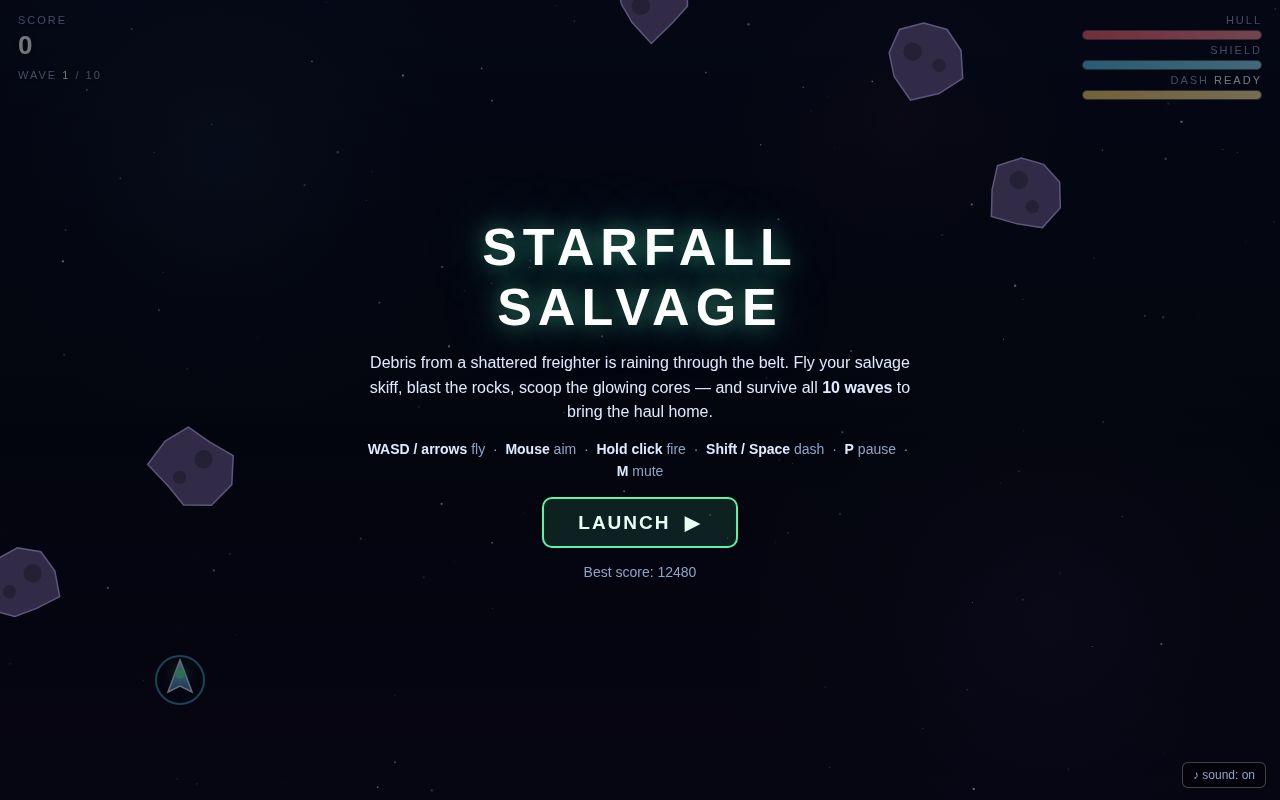
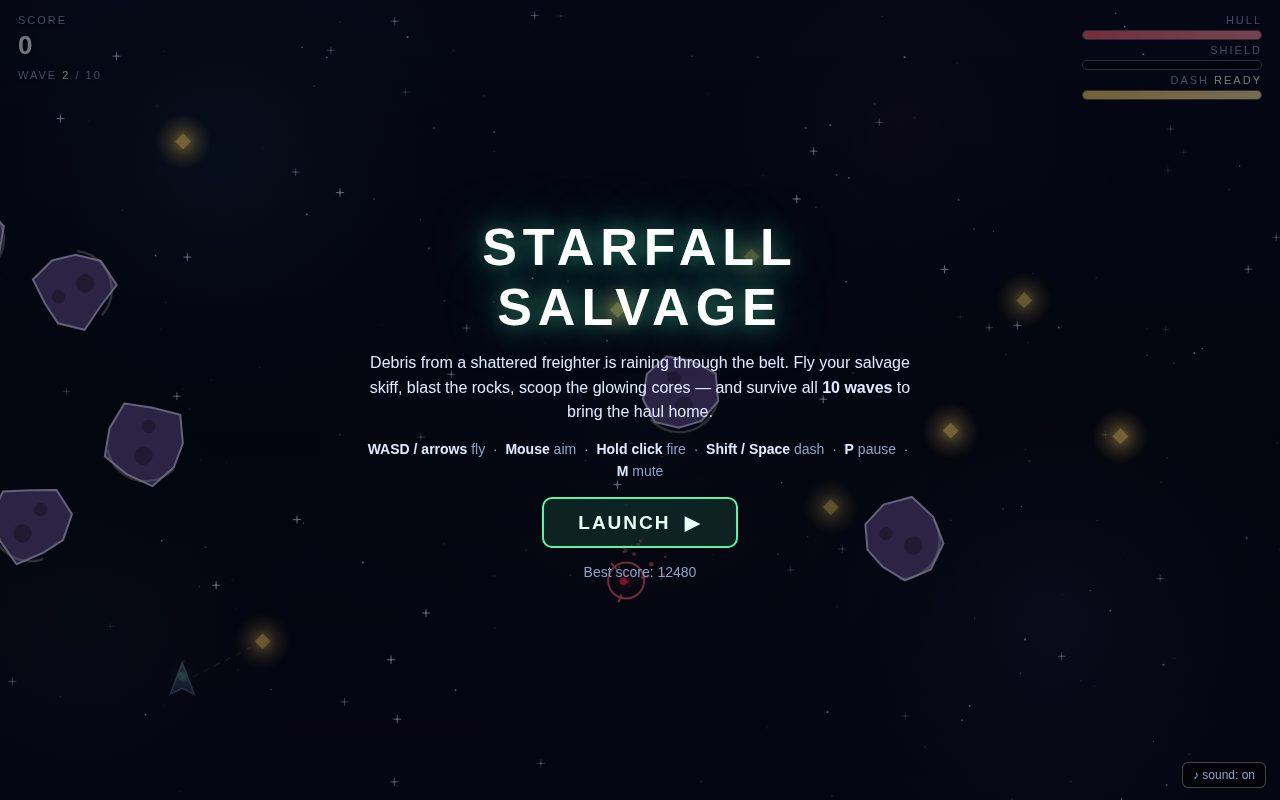
Make the game read richer: dense action frames, prism cores, tractor beams
- Rich prism cores (1 in 8 drops, 5x value) with cyan glow and sparkle
- Tractor-beam lines reel nearby cores toward the skiff
- Denser starfield, stronger nebulae, per-size rock shading, brighter bullets
- Engine glow under thrust, bigger explosion bursts
- Screenshots re-staged: full wave 5 field with drones firing, title
  backdrop with a drone and scattered cores, wreck debris at the death site
- Wave banner now shows on the frozen play frame

diff --git a/game/src/render.js b/game/src/render.js
@@ -12,6 +12,7 @@ export function drawWorld(ctx, world) {
   }
   drawBackground(ctx, world);
   drawCores(ctx, world);
+  drawTractorBeams(ctx, world);
   drawAsteroids(ctx, world);
   drawDrones(ctx, world);
   drawEnemyBullets(ctx, world);
@@ -31,17 +32,23 @@ function drawBackground(ctx, world) {
   ctx.fillStyle = grad;
   ctx.fillRect(-24, -24, CONFIG.width + 48, CONFIG.height + 48);
 
-  // Two soft nebula blobs, painted once per frame from fixed spots.
-  drawNebula(ctx, 220, 160, 300, 'rgba(76, 201, 240, 0.07)');
-  drawNebula(ctx, 1050, 620, 340, 'rgba(157, 120, 255, 0.08)');
-  drawNebula(ctx, 900, 120, 200, 'rgba(255, 93, 115, 0.05)');
+  // Five soft nebula blobs, painted once per frame from fixed spots.
+  drawNebula(ctx, 220, 160, 300, 'rgba(76, 201, 240, 0.09)');
+  drawNebula(ctx, 1050, 620, 340, 'rgba(157, 120, 255, 0.10)');
+  drawNebula(ctx, 900, 120, 200, 'rgba(255, 93, 115, 0.06)');
+  drawNebula(ctx, 80, 620, 260, 'rgba(93, 242, 166, 0.05)');
+  drawNebula(ctx, 640, 420, 420, 'rgba(76, 201, 240, 0.04)');
 
-  // Parallax stars.
+  // Parallax stars; the brightest ones get a little cross sparkle.
   for (const s of world.stars) {
     const tw = 0.55 + 0.45 * Math.sin(s.twinkle);
     ctx.globalAlpha = tw;
     ctx.fillStyle = '#cfe0ff';
     ctx.fillRect(s.x, s.y, s.size, s.size);
+    if (s.size >= 1.8) {
+      ctx.fillRect(s.x - 3, s.y + s.size / 2 - 0.5, 6 + s.size, 1);
+      ctx.fillRect(s.x + s.size / 2 - 0.5, s.y - 3, 1, 6 + s.size);
+    }
   }
   ctx.globalAlpha = 1;
 }
@@ -93,6 +100,17 @@ function drawShip(ctx, world) {
   ctx.shadowBlur = 12;
   ctx.fill();
   ctx.shadowBlur = 0;
+  // Engine glow whenever the skiff is under thrust.
+  const speed = Math.hypot(ship.vx, ship.vy);
+  if (speed > 40) {
+    ctx.beginPath();
+    ctx.moveTo(-12, -5);
+    ctx.lineTo(-12 - 10 - speed * 0.02, 0);
+    ctx.lineTo(-12, 5);
+    ctx.closePath();
+    ctx.fillStyle = 'rgba(255, 179, 71, 0.85)';
+    ctx.fill();
+  }
   // Engine flame when dashing.
   if (ship.dashTimer > 0) {
     ctx.beginPath();
@@ -114,12 +132,12 @@ function drawBullets(ctx, world) {
     const nx = b.vx / len;
     const ny = b.vy / len;
     ctx.beginPath();
-    ctx.moveTo(b.x - nx * 12, b.y - ny * 12);
+    ctx.moveTo(b.x - nx * 16, b.y - ny * 16);
     ctx.lineTo(b.x, b.y);
     ctx.strokeStyle = '#ffe9a8';
-    ctx.lineWidth = 3;
+    ctx.lineWidth = 4;
     ctx.shadowColor = '#ffd166';
-    ctx.shadowBlur = 8;
+    ctx.shadowBlur = 10;
     ctx.stroke();
   }
   ctx.restore();
@@ -154,11 +172,19 @@ function drawAsteroids(ctx, world) {
       ctx.lineTo(a.vertices[i].x, a.vertices[i].y);
     }
     ctx.closePath();
-    const shade = a.size === 'large' ? '#6b5a8e' : a.size === 'medium' ? '#7d6ba8' : '#8f7cc0';
+    // Big rocks read deep violet, medium ones slate, small ones pale:
+    // the field's danger is visible at a glance.
+    const shade = a.size === 'large' ? '#5d4a86' : a.size === 'medium' ? '#7d6ba8' : '#a08fd0';
     ctx.fillStyle = shade;
     ctx.fill();
-    ctx.strokeStyle = '#c9b8ff';
-    ctx.lineWidth = 1.5;
+    ctx.strokeStyle = '#d9ccff';
+    ctx.lineWidth = 2;
+    ctx.stroke();
+    // Sunlit crescent on the upper-left rim.
+    ctx.beginPath();
+    ctx.arc(0, 0, a.radius * 0.92, Math.PI * 0.9, Math.PI * 1.6);
+    ctx.strokeStyle = 'rgba(255, 255, 255, 0.35)';
+    ctx.lineWidth = 2.5;
     ctx.stroke();
     // Cracks and craters, from the same seeded vertices.
     ctx.beginPath();
@@ -231,26 +257,66 @@ function drawCores(ctx, world) {
     const blink = 0.75 + 0.25 * Math.sin(c.pulse);
     const fade = c.age > 9 ? Math.max(0.25, (12 - c.age) / 3) : 1;
     ctx.globalAlpha = blink * fade;
-    // Glow halo.
-    const g = ctx.createRadialGradient(c.x, c.y, 0, c.x, c.y, c.radius * 3);
-    g.addColorStop(0, 'rgba(255, 209, 102, 0.55)');
-    g.addColorStop(1, 'rgba(255, 209, 102, 0)');
+    const rich = c.kind === 'rich';
+    const haloColor = rich ? '76, 201, 240' : '255, 209, 102';
+    // Glow halo, larger for rich prism cores.
+    const g = ctx.createRadialGradient(c.x, c.y, 0, c.x, c.y, c.radius * (rich ? 4.5 : 3.5));
+    g.addColorStop(0, `rgba(${haloColor}, ${rich ? 0.75 : 0.55})`);
+    g.addColorStop(1, `rgba(${haloColor}, 0)`);
     ctx.fillStyle = g;
     ctx.beginPath();
-    ctx.arc(c.x, c.y, c.radius * 3, 0, Math.PI * 2);
+    ctx.arc(c.x, c.y, c.radius * (rich ? 4.5 : 3.5), 0, Math.PI * 2);
     ctx.fill();
     // Diamond core.
     ctx.save();
     ctx.translate(c.x, c.y);
     ctx.rotate(Math.PI / 4);
-    ctx.fillStyle = '#ffd166';
-    ctx.shadowColor = '#ffd166';
-    ctx.shadowBlur = 12;
+    ctx.fillStyle = rich ? '#4cc9f0' : '#ffd166';
+    ctx.shadowColor = rich ? '#4cc9f0' : '#ffd166';
+    ctx.shadowBlur = rich ? 18 : 12;
     ctx.fillRect(-c.radius * 0.7, -c.radius * 0.7, c.radius * 1.4, c.radius * 1.4);
     ctx.restore();
+    // Rich cores flash a white heart and a sparkle cross.
+    if (rich) {
+      ctx.fillStyle = '#ffffff';
+      ctx.shadowColor = '#ffffff';
+      ctx.shadowBlur = 10;
+      ctx.fillRect(c.x - 2, c.y - 2, 4, 4);
+      ctx.shadowBlur = 0;
+      ctx.strokeStyle = 'rgba(255, 255, 255, 0.8)';
+      ctx.lineWidth = 1;
+      ctx.beginPath();
+      ctx.moveTo(c.x - c.radius * 1.6, c.y);
+      ctx.lineTo(c.x + c.radius * 1.6, c.y);
+      ctx.moveTo(c.x, c.y - c.radius * 1.6);
+      ctx.lineTo(c.x, c.y + c.radius * 1.6);
+      ctx.stroke();
+    }
   }
   ctx.restore();
   ctx.globalAlpha = 1;
+}
+
+// Faint tractor lines from the skiff to cores it is pulling in: the
+// salvage itself, made visible.
+function drawTractorBeams(ctx, world) {
+  const ship = world.ship;
+  if (!ship.alive) return;
+  ctx.save();
+  for (const c of world.cores) {
+    const d = Math.hypot(c.x - ship.x, c.y - ship.y);
+    if (d < 200 && d > ship.radius + c.radius + 4) {
+      const alpha = 0.28 * (1 - d / 220);
+      ctx.beginPath();
+      ctx.moveTo(ship.x, ship.y);
+      ctx.lineTo(c.x, c.y);
+      ctx.strokeStyle = c.kind === 'rich' ? `rgba(76, 201, 240, ${alpha + 0.12})` : `rgba(255, 209, 102, ${alpha})`;
+      ctx.lineWidth = 1.5;
+      ctx.setLineDash([6, 6]);
+      ctx.stroke();
+    }
+  }
+  ctx.restore();
 }
 
 function drawParticles(ctx, world) {

diff --git a/game/src/shots.js b/game/src/shots.js
@@ -5,7 +5,7 @@
 // nearest core, fires at the nearest enemy and dashes when hurt.
 import { CONFIG } from './config.js';
 import { makeRng } from './random.js';
-import { createWorld, startWave, updateWorld, applyUpgrade } from './world.js';
+import { createWorld, startWave, updateWorld, applyUpgrade, spawnCore, burst, updateParticles } from './world.js';
 
 export function shotRequested() {
   const params = new URLSearchParams(window.location.search);
@@ -18,23 +18,34 @@ export function buildShotWorld(shot, seed) {
   world.best = 12480;
 
   if (shot === 'start') {
-    // A lively title backdrop: wave 1 already spawned. Park the ship
+    // A lively title backdrop: wave 2 already spawned, so a drone hunts
+    // above the title, and cores glint across the field. Park the ship
     // low-left, clear of the LAUNCH button and the best-score line.
+    world.wave = 2;
     startWave(world);
     seedField(world, 900);
+    scatterCores(world, 8);
     world.ship.x = 180;
     world.ship.y = 680;
     return { world, state: 'title' };
   }
 
   if (shot === 'play') {
-    // Simulate 10 seconds of autopilot play on wave 3 for a busy
-    // mid-action frame: rocks, drones and cores still everywhere.
-    world.wave = 3;
+    // Spawn the whole wave first, then let the autopilot fight for 2.5
+    // seconds: bullets fan out, a rock or two pops and drops cores, but
+    // the field stays crowded. Simulating a long fight instead clears
+    // the field and leaves an empty frame. The ship already runs split
+    // shot and a faster cycler, so the fire reads as a fan.
+    world.wave = 5;
+    applyUpgrade(world, 'split');
+    applyUpgrade(world, 'rapid');
     startWave(world);
+    seedField(world, 800);
+    world.ship.hull = world.ship.maxHull;
+    world.ship.shield = world.ship.maxShield;
     const autopilot = makeAutopilot();
     const dt = 1 / 60;
-    for (let t = 0; t < 10 * 60; t++) {
+    for (let t = 0; t < 2.5 * 60; t++) {
       autopilot(world, dt);
       updateWorld(world, autopilot.input, dt, null);
       autopilot.input.endTick();
@@ -45,7 +56,8 @@ export function buildShotWorld(shot, seed) {
   }
 
   if (shot === 'end') {
-    // A doomed run: two waves in, hull gone, wreckage everywhere.
+    // A doomed run: two waves in, hull gone, wreckage everywhere. A
+    // fresh explosion burst still hangs at the death site.
     world.wave = 3;
     world.score = 7310;
     world.kills = 41;
@@ -54,6 +66,11 @@ export function buildShotWorld(shot, seed) {
     seedField(world, 1500);
     world.ship.hull = 0;
     world.ship.alive = false;
+    burst(world, world.ship.x, world.ship.y, '#ffd166', 60, 420, 9);
+    burst(world, world.ship.x, world.ship.y, '#ff5d73', 40, 320, 8);
+    // Let the debris fly for a fifth of a second so the wreck reads as
+    // a spread-out explosion, not one stacked clump.
+    for (let t = 0; t < 12; t++) updateParticles(world, 1 / 60);
     return { world, state: 'gameover' };
   }
 
@@ -77,6 +94,16 @@ function seedField(world, ticks) {
   for (let t = 0; t < ticks; t++) {
     updateWorld(world, idle, dt, null);
     if (world.waveSpawned >= world.waveTotal) break;
+  }
+}
+
+// Drop n cores at fixed seeded spots across the field, for backdrops
+// where nothing has been shot yet and no cores would exist otherwise.
+function scatterCores(world, n) {
+  for (let i = 0; i < n; i++) {
+    const x = 120 + world.rng() * 1040;
+    const y = 120 + world.rng() * 560;
+    spawnCore(world, x, y);
   }
 }
 
@@ -105,7 +132,9 @@ function makeAutopilot() {
 
   function autopilot(world, dt) {
     const ship = world.ship;
-    // Steer toward the nearest core, else toward the centre.
+    // Steer toward the nearest core, else hold the middle of the arena:
+    // chasing every core drags the ship into a corner and empties the
+    // frame, while the middle keeps the fight in view.
     let tx = 640;
     let ty = 400;
     let best = Infinity;
@@ -117,15 +146,20 @@ function makeAutopilot() {
         ty = c.y;
       }
     }
+    if (best > 320) {
+      tx = 640;
+      ty = 400;
+    }
     const dx = tx - ship.x;
     const dy = ty - ship.y;
     const len = Math.hypot(dx, dy) || 1;
     input._move = { x: dx / len, y: dy / len };
-    // Aim at the nearest enemy.
+    // Aim at the nearest rock. Drones are left alone on purpose: they
+    // keep orbiting and shooting, so the frame keeps its red hunters.
     let aimX = ship.x;
     let aimY = ship.y - 100;
     let bestEnemy = Infinity;
-    const targets = world.asteroids.concat(world.drones);
+    const targets = world.asteroids;
     for (const e of targets) {
       const d = Math.hypot(e.x - ship.x, e.y - ship.y);
       if (d < bestEnemy) {

diff --git a/game/src/world.js b/game/src/world.js
@@ -72,7 +72,7 @@ function createShip() {
 // A starfield that drifts slowly; stars are placed once per world.
 function makeStars(rng) {
   const stars = [];
-  for (let i = 0; i < 130; i++) {
+  for (let i = 0; i < 220; i++) {
     stars.push({
       x: rng() * CONFIG.width,
       y: rng() * CONFIG.height,
@@ -193,19 +193,23 @@ function spawnCore(world, x, y) {
   const rng = world.rng;
   const angle = rng() * Math.PI * 2;
   const speed = range(rng, 30, 90);
+  // One core in eight is a rich prism core: bigger, brighter, worth 5x.
+  // It is the moment a salvage run turns into a haul.
+  const rich = rng() < 0.125;
   world.cores.push({
     x,
     y,
     vx: Math.cos(angle) * speed,
     vy: Math.sin(angle) * speed,
-    radius: CONFIG.core.radius,
-    value: CONFIG.core.value,
+    radius: rich ? 11 : CONFIG.core.radius,
+    value: rich ? CONFIG.core.value * 5 : CONFIG.core.value,
+    kind: rich ? 'rich' : 'core',
     age: 0,
     pulse: rng() * Math.PI * 2,
   });
 }
 
-function burst(world, x, y, color, count, speed) {
+function burst(world, x, y, color, count, speed, sizeMax) {
   const rng = world.rng;
   for (let i = 0; i < count; i++) {
     if (world.particles.length >= CONFIG.particles.maxCount) return;
@@ -218,7 +222,7 @@ function burst(world, x, y, color, count, speed) {
       vy: Math.sin(angle) * sp,
       life: range(rng, 0.35, 0.8),
       maxLife: 0.8,
-      size: range(rng, 1.5, 4),
+      size: range(rng, 1.5, sizeMax || 4),
       color,
     });
   }
@@ -517,7 +521,7 @@ function killAsteroid(world, a, sfx) {
   world.kills += 1;
   world.score += a.score;
   addFloater(world, a.x, a.y, `+${a.score}`, '#dfe9ff');
-  burst(world, a.x, a.y, '#c9b8ff', a.size === 'large' ? 26 : 16, a.size === 'large' ? 320 : 240);
+  burst(world, a.x, a.y, '#c9b8ff', a.size === 'large' ? 34 : 16, a.size === 'large' ? 320 : 240);
   if (sfx) sfx.explosion(a.size === 'large');
   const drops = cfg.coresDropped[a.size];
   for (let i = 0; i < drops; i++) {
@@ -681,4 +685,4 @@ export function comboMultiplier(world) {
   return Math.min(1 + Math.floor(world.combo / 5), CONFIG.combo.maxMultiplier);
 }
 
-export { intRange };
+export { intRange, spawnCore, burst, updateParticles };

diff --git a/game/index.html b/game/index.html
@@ -44,7 +44,7 @@
   .hud .right { text-align: right; }
   .hud .score { font-size: 26px; font-weight: 700; color: #fff; letter-spacing: 1px; }
   .hud .label { font-size: 11px; letter-spacing: 2px; text-transform: uppercase; color: var(--dim); }
-  .hud .combo { color: var(--accent); font-weight: 700; }
+  .hud .combo { color: var(--accent); font-weight: 700; font-size: 17px; }
   .bar { width: 180px; height: 10px; border: 1px solid rgba(255,255,255,.35); border-radius: 5px; overflow: hidden; background: rgba(0,0,0,.45); }
   .bar > div { height: 100%; transition: width .15s linear; }
   #hullFill { background: linear-gradient(90deg, #ff5d73, #ff8fa0); }

diff --git a/game/src/main.js b/game/src/main.js
@@ -291,6 +291,11 @@ function start() {
       showOnly(null);
     }
     document.title = `Starfall Salvage — shot:${shot}`;
+    if (state === 'playing') {
+      // The frozen action frame carries its wave banner with it.
+      toastEl.textContent = `WAVE ${world.wave} — DRONES INBOUND`;
+      toastEl.style.opacity = '1';
+    }
     return;
   }
   world = createWorld(makeRng(seed));

diff --git a/README.md b/README.md
@@ -7,7 +7,7 @@
 **Starfall Salvage** — a neon arena salvage game. Fly your skiff through a debris field, blast asteroids and hunter drones, scoop the glowing salvage cores, chain combos, pick an upgrade between waves, and survive all 10 waves to bring the haul home.
 
 - **Fly** with WASD / arrows, **aim** with the mouse, **hold click** to fire, **Shift / Space** to dash through danger.
-- **Score** by collecting cores — pickups chain into a combo multiplier up to x8. Kills drop cores; big rocks split into smaller ones.
+- **Score** by collecting cores — pickups chain into a combo multiplier up to x8. Kills drop cores; big rocks split into smaller ones. One core in eight is a rich prism core worth 5x, and your tractor beam visibly reels nearby cores in.
 - **Upgrades** between waves: faster fire, heavier rounds, split shot, plated hull, shield coil, tractor web, ion dash, hot thrusters.
 - **Win** by clearing wave 10. **Lose** when your hull hits zero. Pause with P, mute with M, restart with R.
 - Synthesised WebAudio sound (no audio files), particles, screen shake, parallax starfield — everything runs offline from static files.
